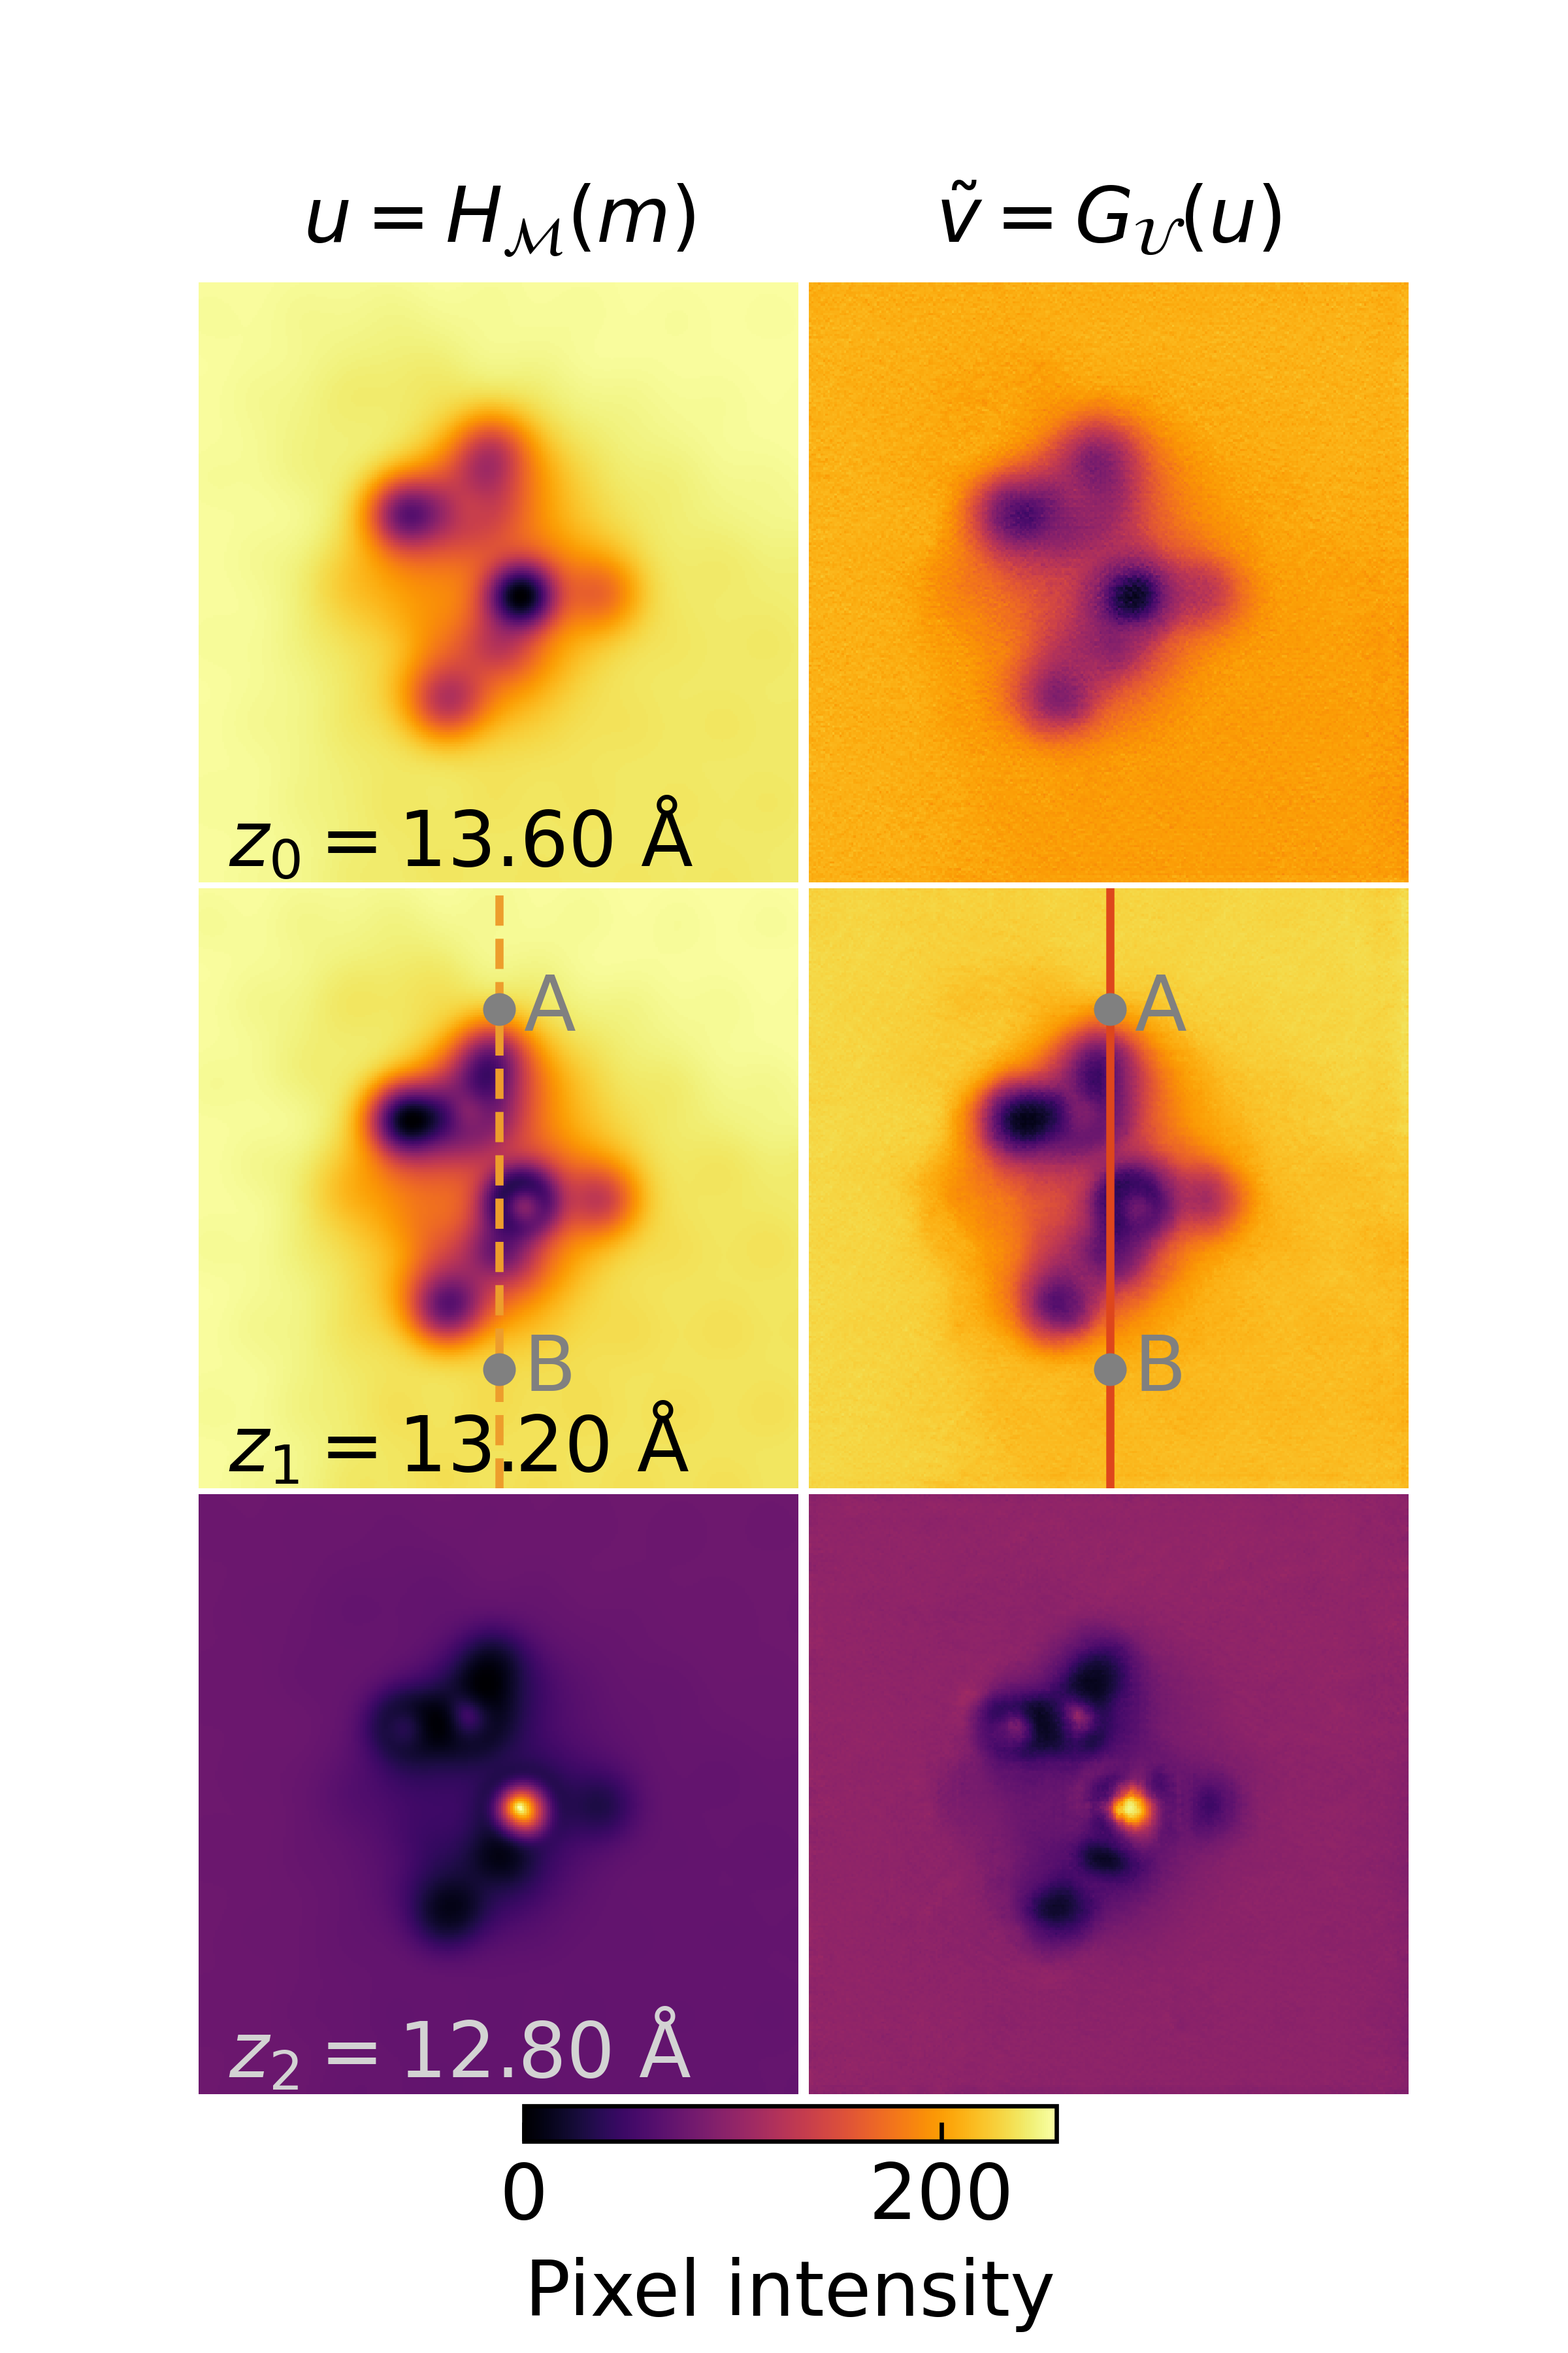
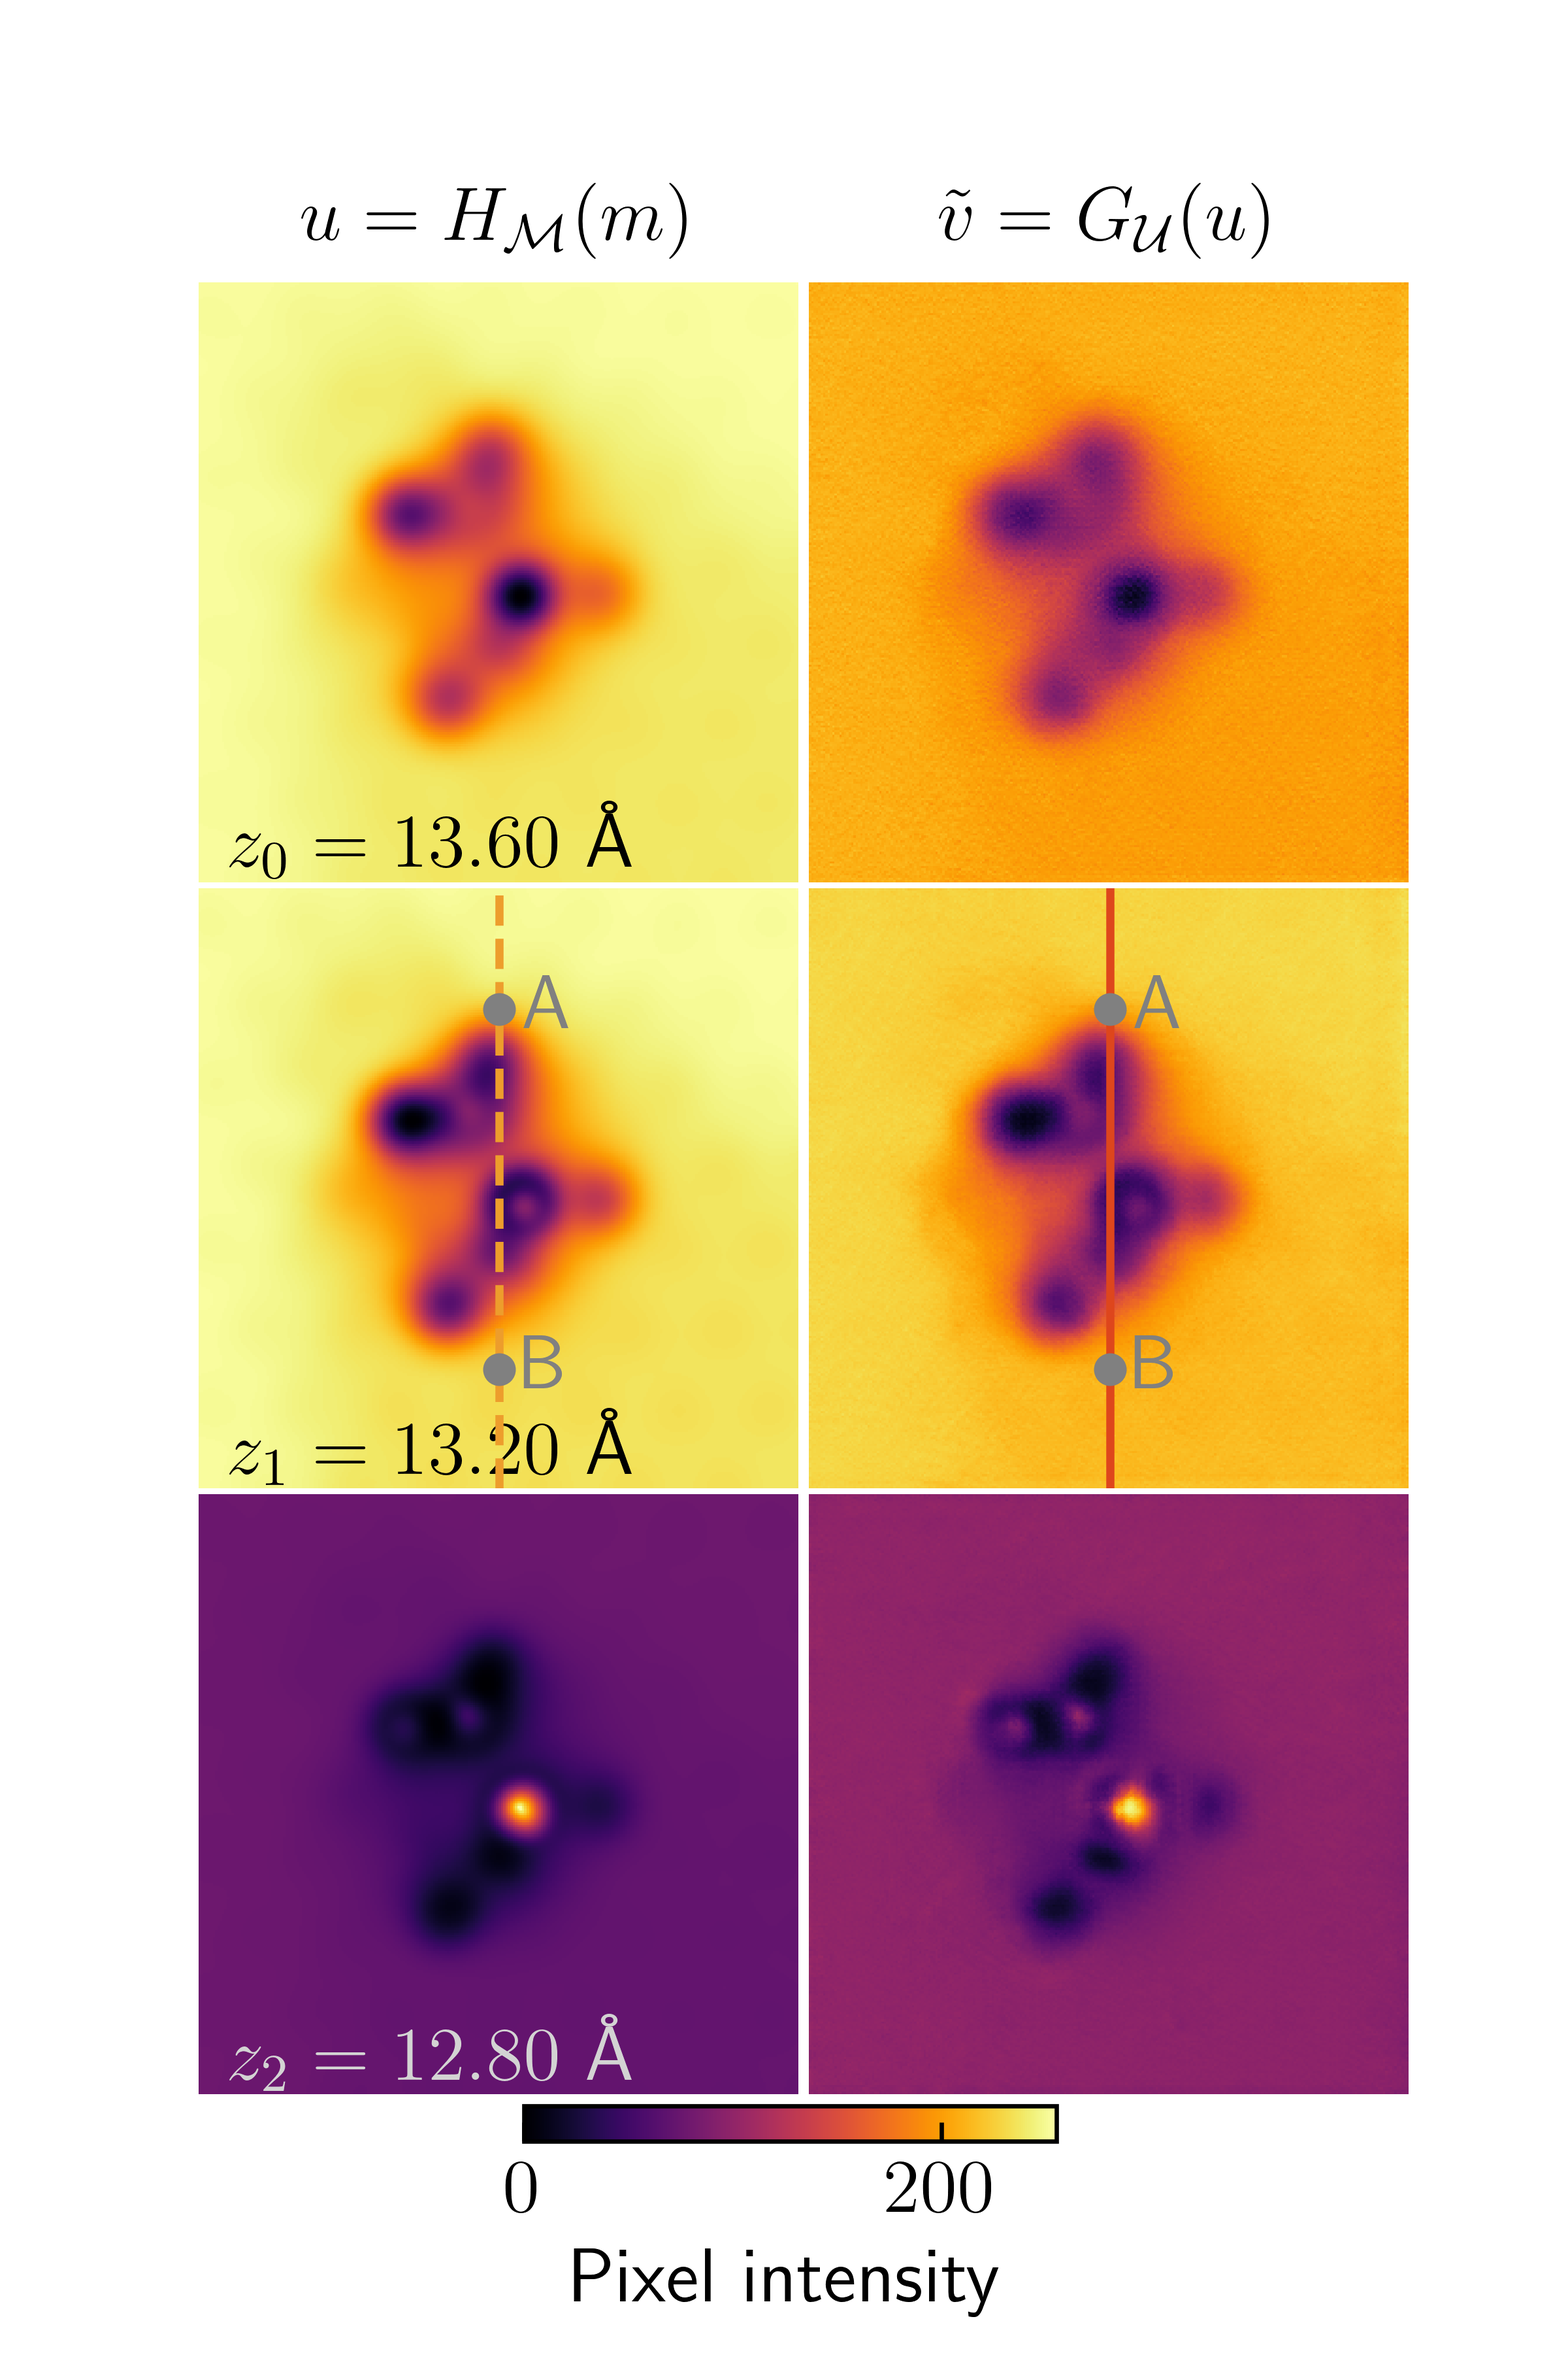
update

diff --git a/manuscript/figures/overview.tex b/manuscript/figures/overview.tex
@@ -20,11 +20,11 @@
     dft/.style={draw=dftcolor!80!black, fill=dftcolor!40, shape=rectangle, minimum width=2cm, minimum height=2cm, rounded corners=12pt},
 	simulated/.style={draw=simcolor!80!black, fill=simcolor!30, shape=rectangle, minimum width=2cm, minimum height=2cm, rounded corners=12pt},
 	experimental/.style={draw=expcolor!80!black, fill=expcolor!40, shape=rectangle, minimum width=2cm, minimum height=2cm, rounded corners=12pt},
-	MU/.style={ultra thick, ->, color=simcolor},
+	MU/.style={->, line width=1.2pt, color=simcolor},
 	UM/.style={thick, ->, color=dftcolor},
-	UV/.style={ultra thick, ->, color=expcolor},
+	UV/.style={->,  line width=1.2pt, color=expcolor},
 	VU/.style={thick, ->, color=simcolor},
-	VM/.style={ultra thick, ->, color=dftcolor},
+	VM/.style={->, line width=1.2pt, color=dftcolor},
 	annotation/.style={font=\small}
 }
 
@@ -33,19 +33,19 @@
 	\begin{tikzpicture}[node distance = 5cm, on grid, auto]
 		
 		% Nodes
-		\node (M) [state, initial, accepting, initial text = {DFT}, dft] {$\mathcal{M}$};
+		\node (M) [state, dft] {$\mathcal{M}$};
 		\node (U) [state, above right = of M, simulated] {$\mathcal{U}$};
 		\node (V) [state, below right = of U, experimental] {$\mathcal{V}$};
 		
 		% Annotations
-		\node[below=1.2cm of M, annotation, text=dftcolor!80!black] {Atomic configuration};
+		\node[below=1.2cm of M, annotation, text=dftcolor!50!black] {Atomic configuration};
 		\node[below=0.6cm of M, annotation] {atoms};
 		
-		\node[above=1.2cm of U, annotation, text=simcolor!80!black] {Simulated AFM};
+		\node[above=1.2cm of U, annotation, text=simcolor!50!black] {Simulated AFM};
 		\node[below=0.6cm of U, annotation] {images};
 		
-		\node[below=1.2cm of V, annotation, text=expcolor!90!black] {Experimental AFM};
-		\node[below=0.6cm of V, annotation] {images};
+		\node[below=1.2cm of V, annotation, text=expcolor!50!black] {Experimental AFM};
+		\node[below=0.6cm of V, annotation] {images}; 
 		
 
 		

diff --git a/src/visualiseTrainingData.py b/src/visualiseTrainingData.py
@@ -48,7 +48,7 @@ plt.rcParams['font.size']=14
 #plt.rcParams['font.family']='Arial'
 plt.rcParams['pdf.fonttype']=42
 plt.rcParams['svg.fonttype'] = 'none'
-#plt.rcParams['text.usetex'] = True # Render text with LaTeX
+plt.rcParams['text.usetex'] = True # Render text with LaTeX
 
 
 xyz_min, xyz_max = get_scan_window_from_xyz(demoStructure)
